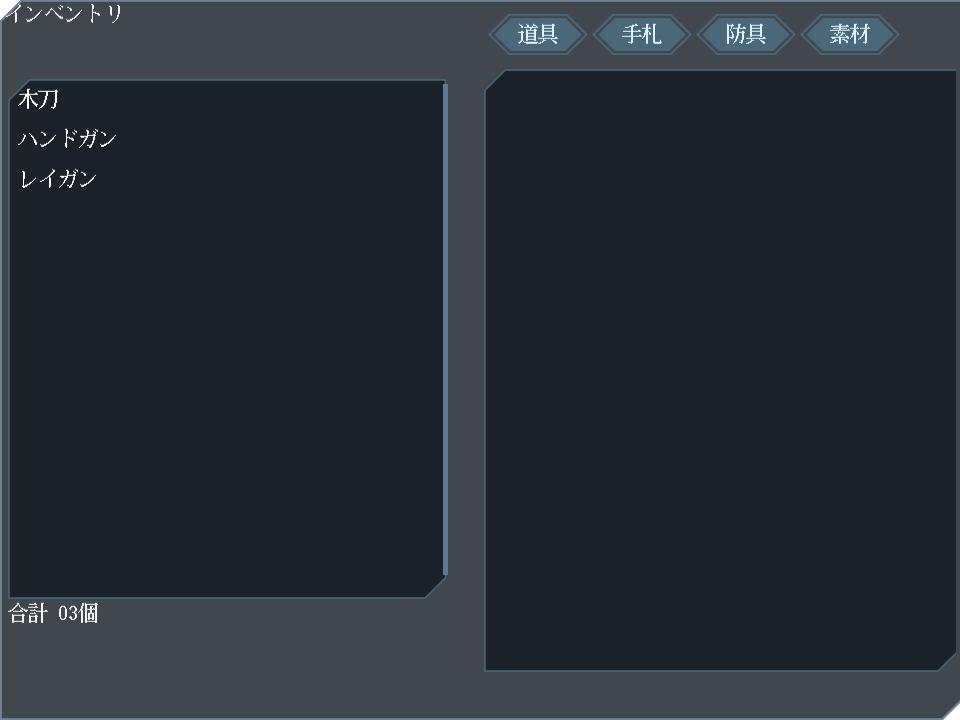
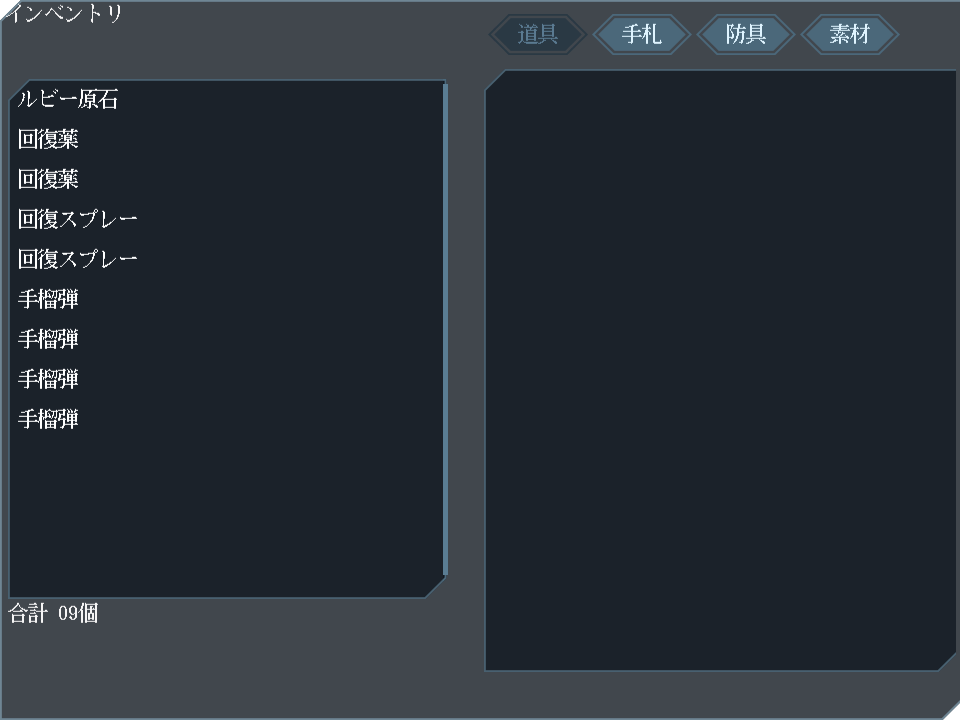
feat: 選択中のカテゴリは暗転させる

diff --git a/lib/states/inventory_menu.go b/lib/states/inventory_menu.go
@@ -23,13 +23,14 @@ import (
 type InventoryMenuState struct {
 	ui *ebitenui.UI
 
-	selectedItem    ecs.Entity        // 選択中のアイテム
-	items           []ecs.Entity      // 表示対象とするアイテム
-	itemDesc        *widget.Text      // アイテムの概要
-	actionContainer *widget.Container // アクションの起点となるコンテナ
-	specContainer   *widget.Container // 性能表示のコンテナ
-	partyWindow     *widget.Window    // 仲間を選択するウィンドウ
-	category        ItemCategoryType
+	selectedItem            ecs.Entity        // 選択中のアイテム
+	items                   []ecs.Entity      // 表示対象とするアイテム
+	itemDesc                *widget.Text      // アイテムの概要
+	actionContainer         *widget.Container // アクションの起点となるコンテナ
+	specContainer           *widget.Container // 性能表示のコンテナ
+	toggleCategoryContainer *widget.Container // カテゴリを切り替えるコンテナ
+	partyWindow             *widget.Window    // 仲間を選択するウィンドウ
+	category                ItemCategoryType
 }
 
 func (st InventoryMenuState) String() string {
@@ -43,6 +44,7 @@ func (st *InventoryMenuState) OnPause(world w.World) {}
 func (st *InventoryMenuState) OnResume(world w.World) {}
 
 func (st *InventoryMenuState) OnStart(world w.World) {
+	st.category = ItemCategoryTypeItem
 	st.ui = st.initUI(world)
 }
 
@@ -105,7 +107,8 @@ func (st *InventoryMenuState) initUI(world w.World) *ebitenui.UI {
 	st.categoryReload(world)
 
 	// 種類トグル
-	toggleContainer := st.newToggleContainer(world)
+	st.toggleCategoryContainer = eui.NewRowContainer()
+	st.reloadToggleContainer(world)
 
 	// アイテムの説明文
 	itemDescContainer := eui.NewRowContainer()
@@ -122,7 +125,7 @@ func (st *InventoryMenuState) initUI(world w.World) *ebitenui.UI {
 	{
 		rootContainer.AddChild(eui.NewMenuText("インベントリ", world))
 		rootContainer.AddChild(widget.NewContainer())
-		rootContainer.AddChild(toggleContainer)
+		rootContainer.AddChild(st.toggleCategoryContainer)
 
 		rootContainer.AddChild(st.actionContainer)
 		rootContainer.AddChild(widget.NewContainer())
@@ -333,36 +336,56 @@ func (st *InventoryMenuState) initPartyWindow(world w.World) {
 	}))
 }
 
-func (st *InventoryMenuState) newToggleContainer(world w.World) *widget.Container {
-	toggleContainer := eui.NewRowContainer()
+func (st *InventoryMenuState) reloadToggleContainer(world w.World) {
+	st.toggleCategoryContainer.RemoveChildren()
+
 	toggleConsumableButton := eui.NewButton("道具",
 		world,
 		widget.ButtonOpts.ClickedHandler(func(args *widget.ButtonClickedEventArgs) {
-			st.setCategoryReload(world, ItemCategoryTypeItem)
+			st.setCategory(world, ItemCategoryTypeItem)
+			st.categoryReload(world)
+			st.reloadToggleContainer(world)
 		}),
 	)
 	toggleCardButton := eui.NewButton("手札",
 		world,
 		widget.ButtonOpts.ClickedHandler(func(args *widget.ButtonClickedEventArgs) {
-			st.setCategoryReload(world, ItemCategoryTypeCard)
+			st.setCategory(world, ItemCategoryTypeCard)
+			st.categoryReload(world)
+			st.reloadToggleContainer(world)
 		}),
 	)
 	toggleWearableButton := eui.NewButton("防具",
 		world,
 		widget.ButtonOpts.ClickedHandler(func(args *widget.ButtonClickedEventArgs) {
-			st.setCategoryReload(world, ItemCategoryTypeWearable)
+			st.setCategory(world, ItemCategoryTypeWearable)
+			st.categoryReload(world)
+			st.reloadToggleContainer(world)
 		}),
 	)
 	toggleMaterialButton := eui.NewButton("素材",
 		world,
 		widget.ButtonOpts.ClickedHandler(func(args *widget.ButtonClickedEventArgs) {
-			st.setCategoryReload(world, ItemCategoryTypeMaterial)
+			st.setCategory(world, ItemCategoryTypeMaterial)
+			st.categoryReload(world)
+			st.reloadToggleContainer(world)
 		}),
 	)
-	toggleContainer.AddChild(toggleConsumableButton)
-	toggleContainer.AddChild(toggleCardButton)
-	toggleContainer.AddChild(toggleWearableButton)
-	toggleContainer.AddChild(toggleMaterialButton)
 
-	return toggleContainer
+	switch st.category {
+	case ItemCategoryTypeItem:
+		toggleConsumableButton.GetWidget().Disabled = true
+	case ItemCategoryTypeWearable:
+		toggleWearableButton.GetWidget().Disabled = true
+	case ItemCategoryTypeCard:
+		toggleCardButton.GetWidget().Disabled = true
+	case ItemCategoryTypeMaterial:
+		toggleMaterialButton.GetWidget().Disabled = true
+	default:
+		log.Fatal("未定義のcategory")
+	}
+	st.toggleCategoryContainer.AddChild(toggleConsumableButton)
+	st.toggleCategoryContainer.AddChild(toggleCardButton)
+	st.toggleCategoryContainer.AddChild(toggleWearableButton)
+	st.toggleCategoryContainer.AddChild(toggleMaterialButton)
 }

diff --git a/lib/states/craft_menu.go b/lib/states/craft_menu.go
@@ -32,8 +32,9 @@ type CraftMenuState struct {
 	itemDesc           *widget.Text      // アイテムの概要
 	actionContainer    *widget.Container // アクションの起点となるコンテナ
 	specContainer      *widget.Container // 性能表示のコンテナ
-	resultWindow       *widget.Window    // 合成結果ウィンドウ
 	recipeList         *widget.Container // レシピリストのコンテナ
+	toggleContainer    *widget.Container // カテゴリ切り替えのコンテナ
+	resultWindow       *widget.Window    // 合成結果ウィンドウ
 	category           ItemCategoryType
 }
 
@@ -48,6 +49,7 @@ func (st *CraftMenuState) OnPause(world w.World) {}
 func (st *CraftMenuState) OnResume(world w.World) {}
 
 func (st *CraftMenuState) OnStart(world w.World) {
+	st.category = ItemCategoryTypeItem
 	st.ui = st.initUI(world)
 }
 
@@ -106,34 +108,15 @@ func (st *CraftMenuState) initUI(world w.World) *ebitenui.UI {
 	st.actionContainer = eui.NewRowContainer()
 	st.categoryReload(world)
 
+	st.toggleContainer = eui.NewRowContainer()
+	st.reloadToggleContainer(world)
+
 	// アイテムの説明文
 	itemDescContainer := eui.NewRowContainer()
 	st.itemDesc = eui.NewMenuText(" ", world) // 空白だと初期状態の縦サイズがなくなる
 	itemDescContainer.AddChild(st.itemDesc)
 
 	st.queryMenuConsumable(world)
-	toggleContainer := eui.NewRowContainer()
-	toggleConsumableButton := eui.NewButton("道具",
-		world,
-		widget.ButtonOpts.ClickedHandler(func(args *widget.ButtonClickedEventArgs) {
-			st.setCategoryReload(world, ItemCategoryTypeItem)
-		}),
-	)
-	toggleWearableButton := eui.NewButton("装備",
-		world,
-		widget.ButtonOpts.ClickedHandler(func(args *widget.ButtonClickedEventArgs) {
-			st.setCategoryReload(world, ItemCategoryTypeWearable)
-		}),
-	)
-	toggleCardButton := eui.NewButton("手札",
-		world,
-		widget.ButtonOpts.ClickedHandler(func(args *widget.ButtonClickedEventArgs) {
-			st.setCategoryReload(world, ItemCategoryTypeCard)
-		}),
-	)
-	toggleContainer.AddChild(toggleConsumableButton)
-	toggleContainer.AddChild(toggleWearableButton)
-	toggleContainer.AddChild(toggleCardButton)
 
 	st.recipeList = eui.NewVerticalContainer()
 	st.specContainer = eui.NewVerticalContainer()
@@ -145,7 +128,7 @@ func (st *CraftMenuState) initUI(world w.World) *ebitenui.UI {
 	{
 		rootContainer.AddChild(eui.NewMenuText("合成", world))
 		rootContainer.AddChild(widget.NewContainer())
-		rootContainer.AddChild(toggleContainer)
+		rootContainer.AddChild(st.toggleContainer)
 
 		rootContainer.AddChild(st.actionContainer)
 		rootContainer.AddChild(widget.NewContainer())
@@ -334,4 +317,46 @@ func (st *CraftMenuState) initWindowContainer(world w.World, name string, window
 		}),
 	)
 	windowContainer.AddChild(closeButton)
+}
+
+func (st *CraftMenuState) reloadToggleContainer(world w.World) {
+	st.toggleContainer.RemoveChildren()
+
+	toggleConsumableButton := eui.NewButton("道具",
+		world,
+		widget.ButtonOpts.ClickedHandler(func(args *widget.ButtonClickedEventArgs) {
+			st.setCategory(world, ItemCategoryTypeItem)
+			st.categoryReload(world)
+			st.reloadToggleContainer(world)
+		}),
+	)
+	toggleWearableButton := eui.NewButton("装備",
+		world,
+		widget.ButtonOpts.ClickedHandler(func(args *widget.ButtonClickedEventArgs) {
+			st.setCategory(world, ItemCategoryTypeWearable)
+			st.categoryReload(world)
+			st.reloadToggleContainer(world)
+		}),
+	)
+	toggleCardButton := eui.NewButton("手札",
+		world,
+		widget.ButtonOpts.ClickedHandler(func(args *widget.ButtonClickedEventArgs) {
+			st.setCategory(world, ItemCategoryTypeCard)
+			st.categoryReload(world)
+			st.reloadToggleContainer(world)
+		}),
+	)
+
+	switch st.category {
+	case ItemCategoryTypeItem:
+		toggleConsumableButton.GetWidget().Disabled = true
+	case ItemCategoryTypeWearable:
+		toggleWearableButton.GetWidget().Disabled = true
+	case ItemCategoryTypeCard:
+		toggleCardButton.GetWidget().Disabled = true
+	}
+
+	st.toggleContainer.AddChild(toggleConsumableButton)
+	st.toggleContainer.AddChild(toggleWearableButton)
+	st.toggleContainer.AddChild(toggleCardButton)
 }

diff --git a/lib/states/home_menu.go b/lib/states/home_menu.go
@@ -171,7 +171,7 @@ var homeMenuTrans = []struct {
 	},
 	{
 		label: "合成",
-		trans: states.Transition{Type: states.TransPush, NewStates: []states.State{&CraftMenuState{category: ItemCategoryTypeItem}}},
+		trans: states.Transition{Type: states.TransPush, NewStates: []states.State{&CraftMenuState{}}},
 		desc:  "アイテムを合成する",
 	},
 	{
@@ -181,7 +181,7 @@ var homeMenuTrans = []struct {
 	},
 	{
 		label: "所持",
-		trans: states.Transition{Type: states.TransSwitch, NewStates: []states.State{&InventoryMenuState{category: ItemCategoryTypeItem}}},
+		trans: states.Transition{Type: states.TransSwitch, NewStates: []states.State{&InventoryMenuState{}}},
 		desc:  "所持品を確認する",
 	},
 	{
